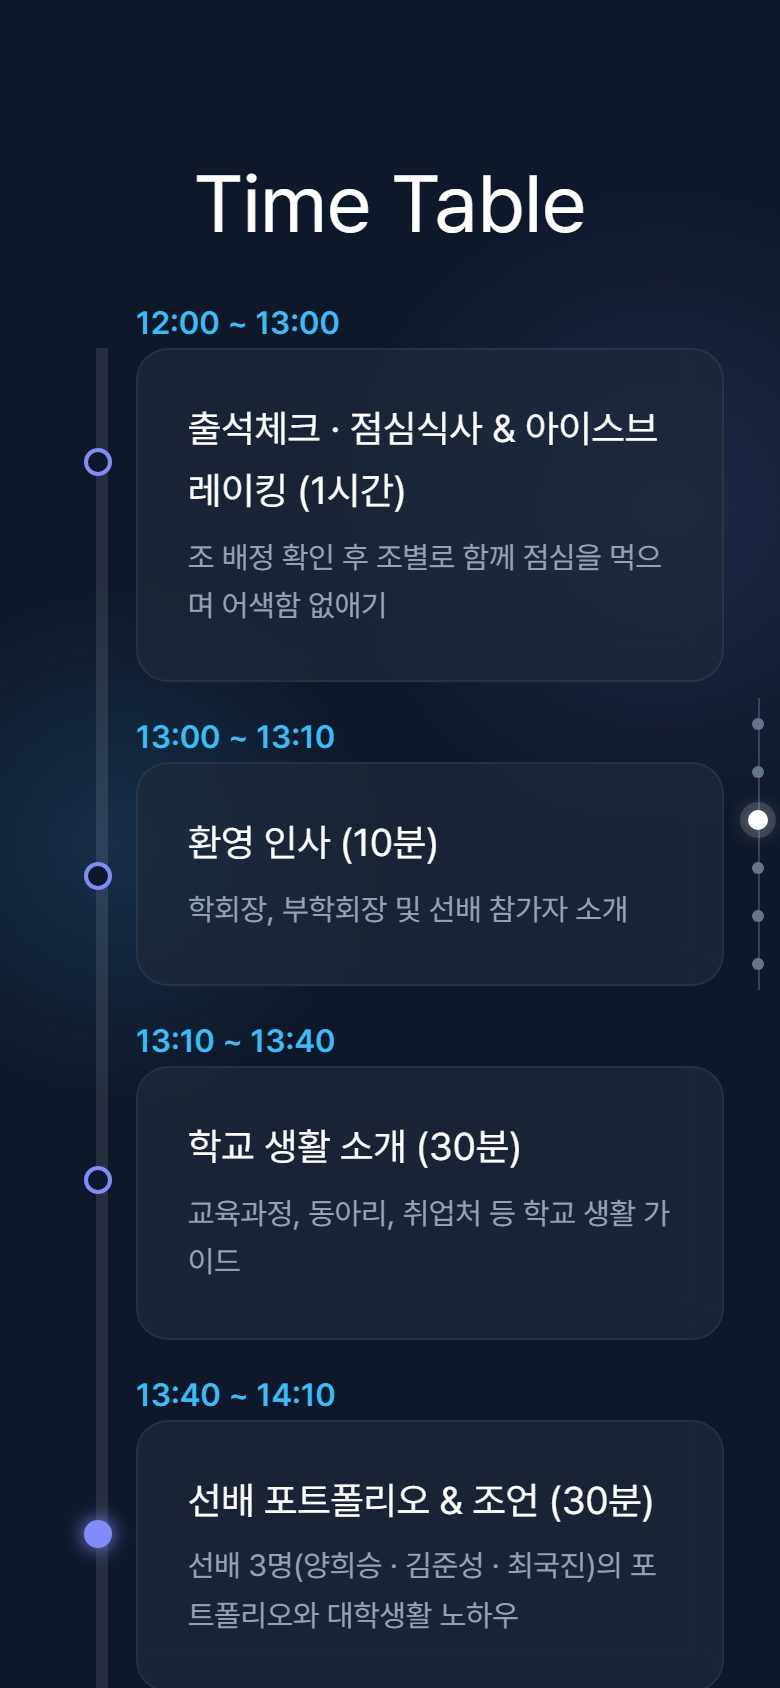
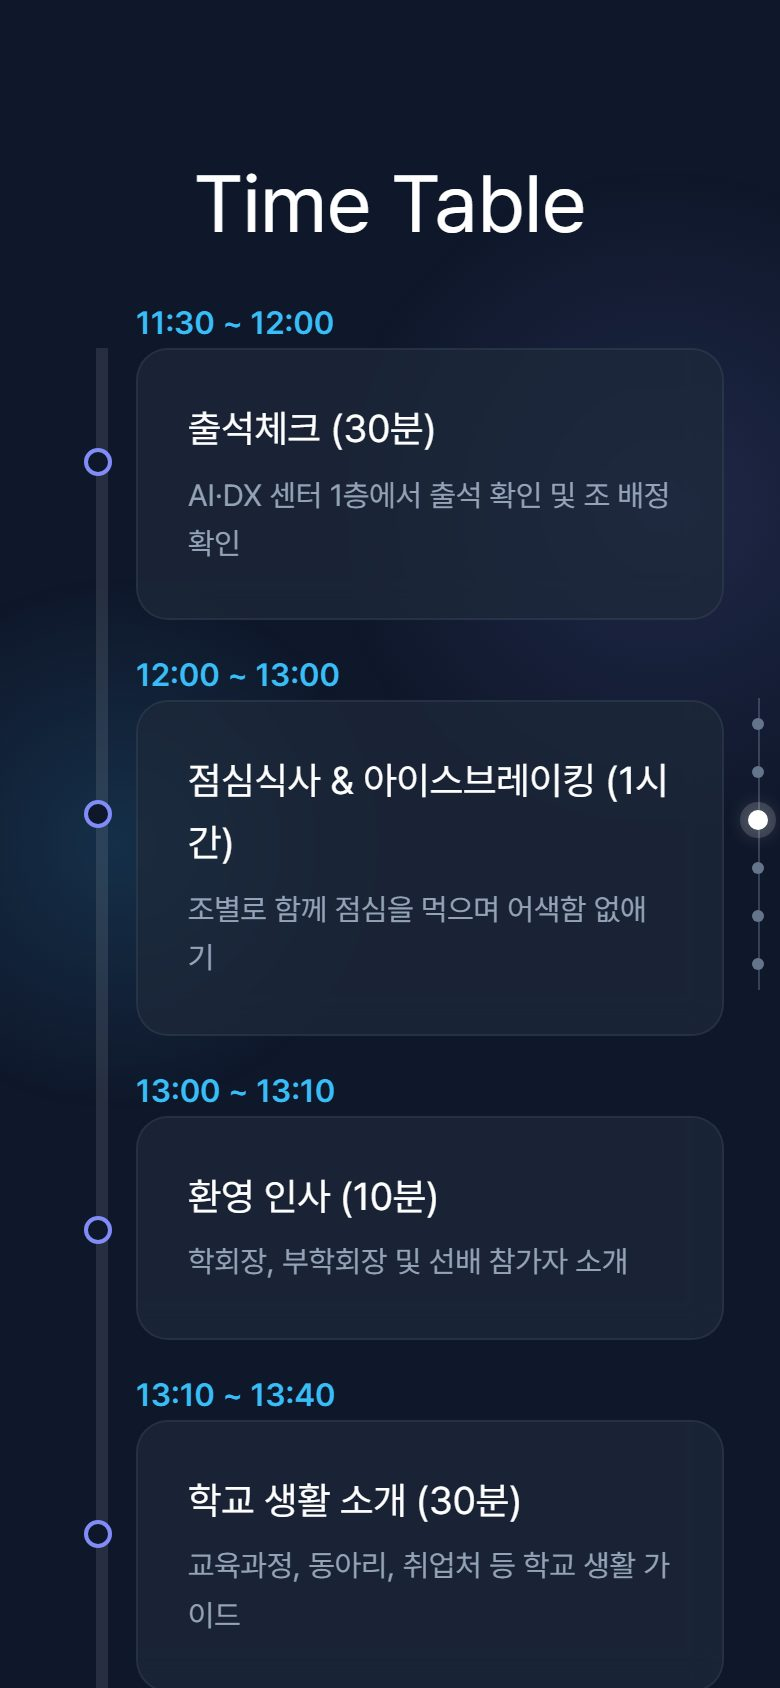
feat: 참여 신청 링크 추가 · 11:30 출석체크 일정 반영
- 첫 화면 첫 번째 버튼과 페이지 아래에 '참여 신청하기' 링크 (Notion 신청 페이지, 새 창)
- 일정을 11:30 출석체크부터로 변경 (점심식사 & 아이스브레이킹 12:00, 종료 15:30 유지)
- 페이지 설명 · 미리보기 이미지 · README 시간 갱신

diff --git a/index.html b/index.html
@@ -6,7 +6,7 @@
     <title>2026 BRIDGE DAY · 소프트웨어 인재를 위한 특별한 만남의 장</title>
     <meta
       name="description"
-      content="연암공과대학교 AI소프트웨어학과 2026 BRIDGE DAY 초청 안내. 12월 5일 (토) 12:00 ~ 15:30, AI·DX 센터 1층. 일정과 오시는 길을 확인하세요."
+      content="연암공과대학교 AI소프트웨어학과 2026 BRIDGE DAY 초청 안내. 12월 5일 (토) 11:30 ~ 15:30, AI·DX 센터 1층. 참여 신청과 일정, 오시는 길을 확인하세요."
     />
     <meta name="theme-color" content="#060915" />
     <link rel="icon" href="/favicon.svg" type="image/svg+xml" />
@@ -17,7 +17,7 @@
     <meta property="og:site_name" content="BRIDGE DAY" />
     <meta property="og:url" content="https://yc-aisw.github.io/bridge_day/" />
     <meta property="og:title" content="2026 BRIDGE DAY" />
-    <meta property="og:description" content="연암공과대학교 AI소프트웨어학과 · 12월 5일 (토) 12:00 · AI·DX 센터 1층" />
+    <meta property="og:description" content="연암공과대학교 AI소프트웨어학과 · 12월 5일 (토) 11:30 · AI·DX 센터 1층" />
     <meta property="og:image" content="https://yc-aisw.github.io/bridge_day/og-image.png" />
     <meta property="og:image:width" content="1200" />
     <meta property="og:image:height" content="630" />

diff --git a/src/data.ts b/src/data.ts
@@ -8,11 +8,13 @@
 export const event = {
   year: 2026,
   date: "2026-12-05",
-  startTime: "12:00",
+  startTime: "11:30",
   endTime: "15:30",
   venue: "AI·DX 센터 1층",
   school: "연암공과대학교",
   department: "AI소프트웨어학과",
+  /** 참여 신청 페이지 (Notion) */
+  registrationUrl: "https://prairie-lint-d34.notion.site/43223e729dac4c9d9928bcd7e087a0dc",
 };
 
 // 페이지 상단의 About 섹션에서
@@ -61,9 +63,14 @@ export type TimelineItem = {
 
 export const timeline: TimelineItem[] = [
   {
+    time: "11:30 ~ 12:00",
+    title: "출석체크 (30분)",
+    description: "AI·DX 센터 1층에서 출석 확인 및 조 배정 확인",
+  },
+  {
     time: "12:00 ~ 13:00",
-    title: "출석체크 · 점심식사 & 아이스브레이킹 (1시간)",
-    description: "조 배정 확인 후 조별로 함께 점심을 먹으며 어색함 없애기",
+    title: "점심식사 & 아이스브레이킹 (1시간)",
+    description: "조별로 함께 점심을 먹으며 어색함 없애기",
   },
   {
     time: "13:00 ~ 13:10",

diff --git a/src/components/Hero.tsx b/src/components/Hero.tsx
@@ -40,7 +40,10 @@ export const Hero = () => (
 
       {/* 바로가기 */}
       <div className="hero-cta">
-        <a className="hero-cta__primary" href="#directions">
+        <a className="hero-cta__primary" href={event.registrationUrl} target="_blank" rel="noopener noreferrer">
+          참여 신청하기
+        </a>
+        <a className="hero-cta__secondary" href="#directions">
           오시는 길
         </a>
         <a className="hero-cta__secondary" href="#schedule">

diff --git a/src/components/Footer.tsx b/src/components/Footer.tsx
@@ -4,6 +4,9 @@ export const Footer = () => (
   <footer>
     <div className="container">
       <p>{event.year} BRIDGE DAY</p>
+      <a className="footer-apply" href={event.registrationUrl} target="_blank" rel="noopener noreferrer">
+        참여 신청하기 →
+      </a>
       <p className="sub-footer">
         문의사항이 있으시면 {event.department} 사무실 (055-751-2190 | 055-751-2199) 로
         연락주세요.

diff --git a/src/index.css b/src/index.css
@@ -1021,3 +1021,19 @@ footer .sub-footer {
     height: 340px;
   }
 }
+
+/* ===== Footer: 참여 신청 링크 ===== */
+.footer-apply {
+  display: inline-block;
+  margin: 4px 0 16px;
+  padding: 10px 24px;
+  border-radius: 50px;
+  font-weight: 600;
+  color: #0f172a;
+  background: var(--primary-color);
+  transition: background-color 0.2s;
+}
+
+.footer-apply:hover {
+  background: #7dd3fc;
+}

diff --git a/README.md b/README.md
@@ -59,7 +59,8 @@ npm run preview
 
 - **행사명:** 2026 BRIDGE DAY
 - **주최:** 연암공과대학교 AI소프트웨어학과
-- **일시:** 12월 5일 (토) 12:00 ~ 15:30
+- **일시:** 12월 5일 (토) 11:30 ~ 15:30
+- **참여 신청:** https://prairie-lint-d34.notion.site/43223e729dac4c9d9928bcd7e087a0dc
 - **장소:** AI·DX 센터 1층 (정문에서 도보 약 7분)
 - **대상:** 소프트웨어에 관심이 많은 초청 학생
 - **주요 내용:** 점심 · 아이스브레이킹 · 학교 생활 소개 · 선배 포트폴리오 발표 · AI·DX 센터 체험 · 선배 프로젝트 체험
